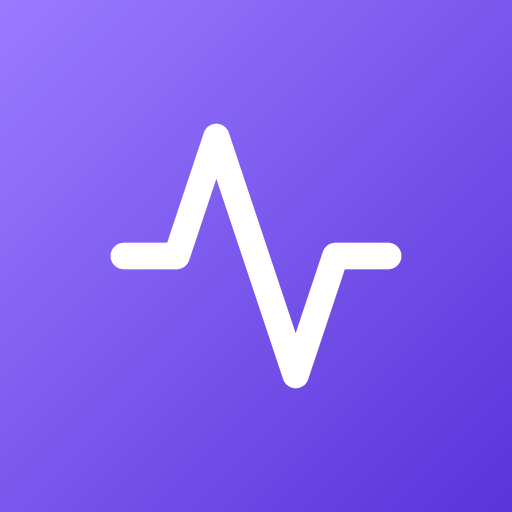
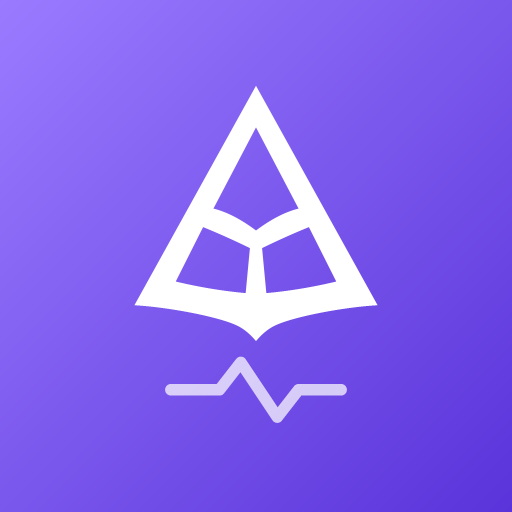
Make the arcane sigil the app mark, pulse line beneath it
The logo tile keeps the brand violet gradient it had, but the lucide
"activity" glyph inside it is replaced by the Arcane sigil — the arrowhead
with the inner kite, wing voids and swallow-tail bottom. The tracker pulse
moves underneath it at a thinner stroke and 72% white, so the brand mark
leads and the health/skin tracking reads as a subordinate note rather than
competing with it.

The geometry lives in src/lib/mark.mjs so the in-app <Logo /> and the
checked-in PNG icons draw from one source and cannot drift. Plain .mjs
because scripts/generate-icons.mjs imports it under bare Node.

generate-icons.mjs grows a small path parser: it flattens the sigil's
beziers, fills them with an even-odd scanline (the three holes need it) and
strokes the pulse polyline over the same gradient as before. Icons stay
full-bleed and opaque for the iOS squircle mask.

Claude-Session: https://claude.ai/code/session_01Hzeoj8VtzPPgasoiHyPLpc

Changed region(s): [[0.2188, 0.1562, 0.7812, 0.8438]]

diff --git a/src/components/arcane-mark.tsx b/src/components/arcane-mark.tsx
@@ -1,0 +1,37 @@
+import {
+  MARK_VIEWBOX,
+  PULSE_OPACITY,
+  PULSE_POINTS,
+  PULSE_STROKE,
+  SIGIL_PATH,
+} from "@/lib/mark.mjs";
+
+/** The Arcane mark: the sigil with the tracker pulse line under it. Draws in
+ * `currentColor`, so the caller sets the colour (white on the brand tile in
+ * <Logo />). Geometry is shared with the app icons — see src/lib/mark.mjs. */
+export function ArcaneMark({ className }: { className?: string }) {
+  return (
+    <svg
+      viewBox={`0 0 ${MARK_VIEWBOX} ${MARK_VIEWBOX}`}
+      className={className}
+      fill="none"
+      aria-hidden="true"
+      focusable="false"
+    >
+      <path
+        d={SIGIL_PATH.join(" ")}
+        fill="currentColor"
+        fillRule="evenodd"
+        clipRule="evenodd"
+      />
+      <polyline
+        points={PULSE_POINTS.map(([x, y]) => `${x},${y}`).join(" ")}
+        stroke="currentColor"
+        strokeWidth={PULSE_STROKE}
+        strokeLinecap="round"
+        strokeLinejoin="round"
+        opacity={PULSE_OPACITY}
+      />
+    </svg>
+  );
+}

diff --git a/src/components/logo.tsx b/src/components/logo.tsx
@@ -1,5 +1,5 @@
-import { Activity } from "lucide-react";
 import Link from "next/link";
+import { ArcaneMark } from "@/components/arcane-mark";
 import { cn } from "@/lib/utils";
 
 const appName = process.env.NEXT_PUBLIC_APP_NAME ?? "Arcane Track";
@@ -8,7 +8,7 @@ export function Logo({ className, href = "/" }: { className?: string; href?: str
   return (
     <Link href={href} className={cn("group inline-flex items-center gap-2.5", className)}>
       <span className="grid h-9 w-9 place-items-center rounded-xl bg-gradient-to-br from-brand-400 to-brand-700 shadow-lg shadow-brand-900/40">
-        <Activity className="h-5 w-5 text-white" />
+        <ArcaneMark className="h-6 w-6 text-white" />
       </span>
       <span className="text-lg font-bold tracking-tight text-white">
         {appName}
